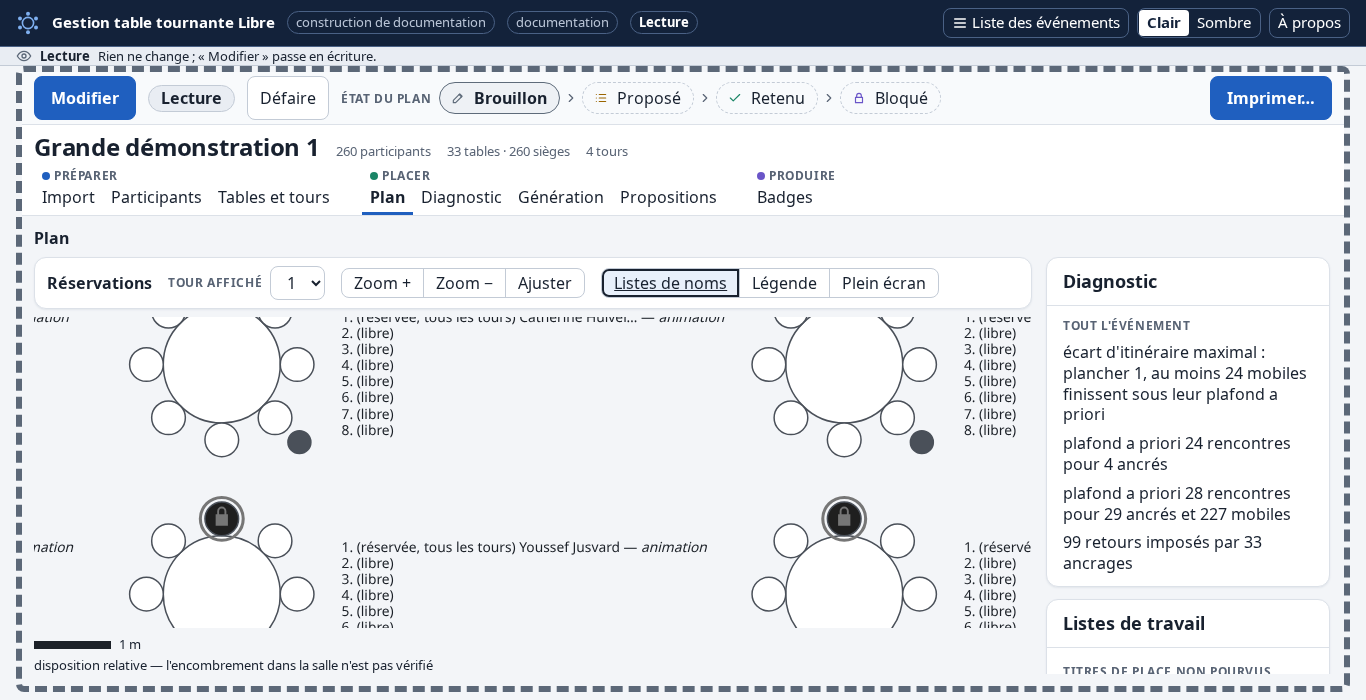
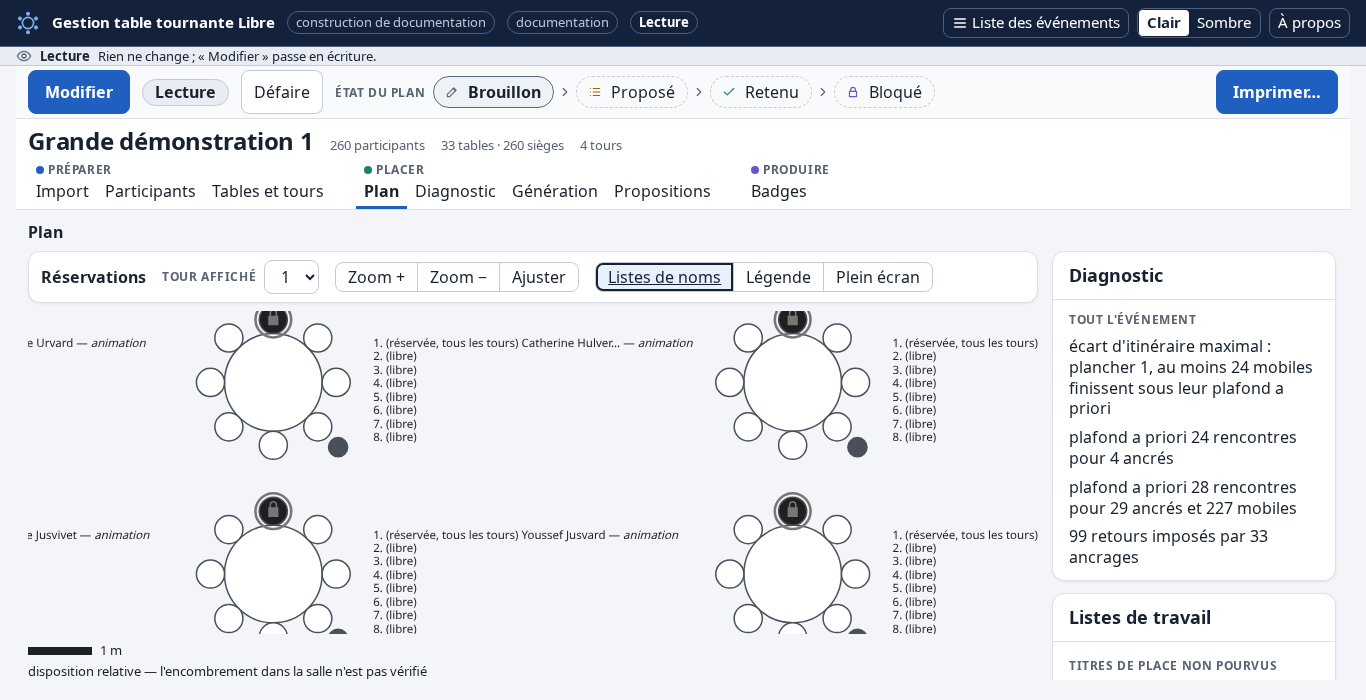
[UPD] captures: event screen without frame, at full width
The walkthrough images and the README show the event screen without
its mode frame, at full width. Print captures are unchanged.
Checked: walkthrough 34/34 in verification mode.

--- FR ---

[UPD] captures : écran d'événement sans cadre, en pleine largeur

Les images du parcours et le README montrent l'écran de l'événement
sans cadre de mode, en pleine largeur. Les captures imprimées ne
changent pas. Vérifié : parcours 34/34 en vérification.

Assisted-by: Claude Opus 5.5

diff --git a/README.md b/README.md
@@ -86,8 +86,6 @@ sur les captures.
 | `--couleur-bandeau-fond` | texte | 4,5 | 15,94 | 01-premier-ecran | 12,84 | 01-premier-ecran |
 | `--couleur-bandeau-texte` | texte | 4,5 | 6,09 | 01-premier-ecran | 12,84 | 01-premier-ecran |
 | `--couleur-bandeau-texte-secondaire` | texte | 4,5 | 9,05 | 01-premier-ecran | 7,60 | 01-premier-ecran |
-| `--couleur-cadre-ecriture` | marque | 3 | 4,69 | 02-import-apercu | 9,10 | 02-import-apercu |
-| `--couleur-cadre-lecture` | marque | 3 | 5,19 | 01b-passer-en-ecriture | 7,34 | 01b-passer-en-ecriture |
 | `--couleur-chaise-pleine` | marque | 3 | 15,09 | 07a-cibles-sieges | 14,94 | 07a-cibles-sieges |
 | `--couleur-chaise-trait` | marque | 3 | 7,44 | 07-plan-tables | 8,13 | 22-plan-brouillon |
 | `--couleur-conflit-appartenance` | marque | 3 | 8,92 | 20-mode-lecture | 6,81 | 20-mode-lecture |
